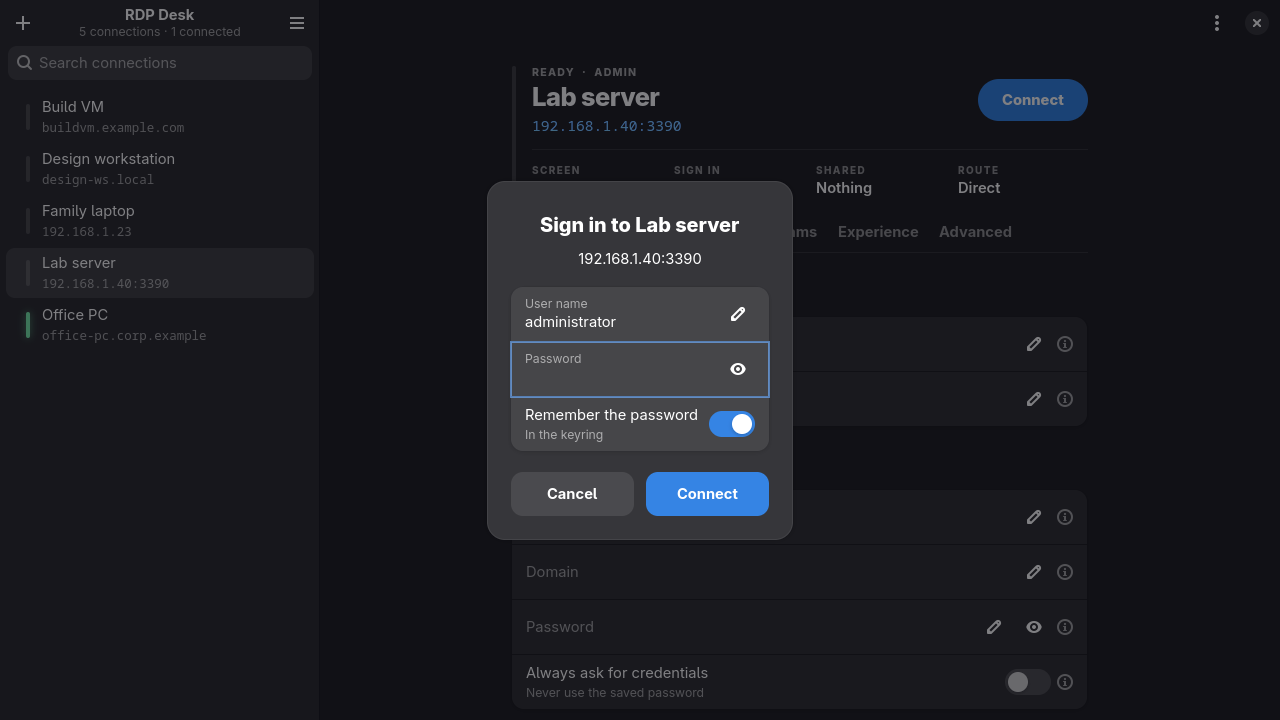
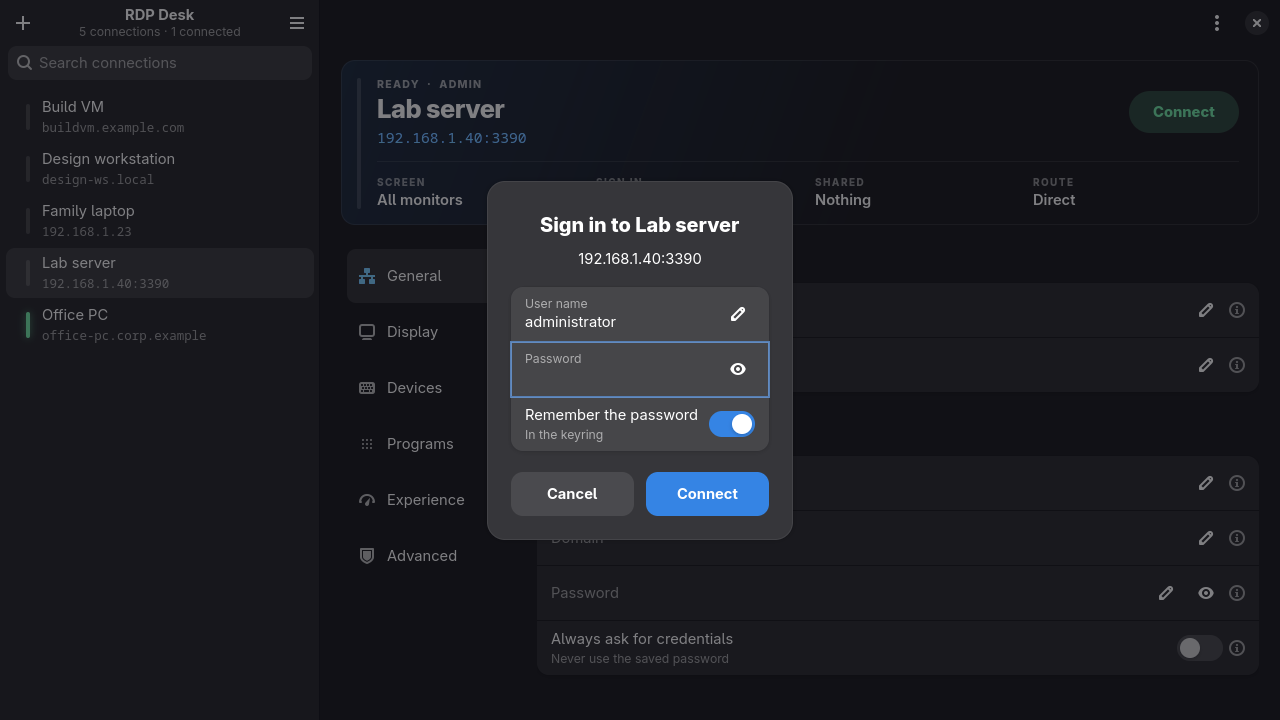
Sections beside the settings; settings as wide as the card; fit any size
- The section switcher moves from under the card to a column left of
  the settings (icon + name); the column and the settings together are
  exactly as wide as the card.
- Each section is a plain column of groups instead of an
  AdwPreferencesPage, which is fixed at 600 px.
- The card and settings grow with the window up to 1100 px.
- Breakpoints: below 960sp the sections become a bottom bar; below
  680sp height the card drops its spec strip; phones collapse the list.
- Back to the gradient card; Connect is green, Disconnect red, and the
  card tints green while connected (theme colours).
- Every section has its own icon (General and Display shared one).

diff --git a/rdpdesk.py b/rdpdesk.py
@@ -88,7 +88,7 @@ def R(key, title, kind="switch", default="0", choices=None, lo=0, hi=0, subtitle
 
 
 TABS = [
-    ("general", "General", "computer-symbolic", [
+    ("general", "General", "network-wired-symbolic", [
         ("Connection", "", ["NAME", R("full address", "Computer (name or IP, optional :port)", "text", "")]),
         ("Sign in", "", [
             R("username", "User name", "text", ""),
@@ -122,7 +122,7 @@ TABS = [
             R("pinconnectionbar", "Pin the connection bar", default="1"),
         ]),
     ]),
-    ("local", "Devices", "audio-speakers-symbolic", [
+    ("local", "Devices", "input-keyboard-symbolic", [
         ("Remote audio", "", [
             R("audiomode", "Remote audio playback", "combo", "0", [
                 ("0", "Play on this computer"), ("1", "Play on the remote computer"), ("2", "Do not play")]),
@@ -146,7 +146,7 @@ TABS = [
         ]),
         "FOLDERS",
     ]),
-    ("programs", "Programs", "system-run-symbolic", [
+    ("programs", "Programs", "view-app-grid-symbolic", [
         ("Start a program on connection", "Leave empty for the normal desktop.", [
             R("alternate shell", "Program path and file name", "text", ""),
             R("shell working directory", "Start in this folder", "text", ""),
@@ -158,7 +158,7 @@ TABS = [
             R("remoteapplicationcmdline", "Command-line arguments", "text", ""),
         ]),
     ]),
-    ("experience", "Experience", "preferences-desktop-appearance-symbolic", [
+    ("experience", "Experience", "power-profile-performance-symbolic", [
         ("Performance", "", [
             R("connection type", "Connection speed", "combo", "7", [
                 ("1", "Modem (56 Kbps)"), ("2", "Low-speed broadband (256 Kbps – 2 Mbps)"),
@@ -181,7 +181,7 @@ TABS = [
             R("autoreconnect max retries", "Attempts", "spin", "20", lo=1, hi=1000),
         ]),
     ]),
-    ("advanced", "Advanced", "preferences-system-symbolic", [
+    ("advanced", "Advanced", "security-high-symbolic", [
         ("Server authentication", "", [
             R("authentication level", "If server authentication fails", "combo", "2", [
                 ("0", "Connect and don't warn me"), ("2", "Warn me"), ("1", "Do not connect")]),
@@ -427,7 +427,13 @@ CSS = """
 .led.warning { background: @warning_color; }
 .hero .led { min-height: 0; }
 .conn-row .subtitle { font-family: monospace; font-size: 0.85em; }
-.hero { padding: 6px 0 0 0; }
+.hero {
+  padding: 18px 20px 16px 16px;
+  border-radius: 14px;
+  background-image: linear-gradient(110deg, alpha(@accent_bg_color, 0.16), alpha(@accent_bg_color, 0.0) 60%);
+  box-shadow: inset 0 0 0 1px alpha(@window_fg_color, 0.09);
+}
+.hero.online { background-image: linear-gradient(110deg, alpha(@success_color, 0.14), alpha(@success_color, 0.0) 60%); }
 .hero-name { font-size: 1.75em; font-weight: 800; letter-spacing: -0.02em; }
 .hero-host { font-family: monospace; color: @accent_color; }
 .status { font-size: 0.72em; font-weight: 800; letter-spacing: 0.12em; opacity: 0.6; }
@@ -436,13 +442,15 @@ CSS = """
 .rule { min-height: 1px; background: alpha(@window_fg_color, 0.09); }
 .spec-key { font-size: 0.68em; font-weight: 800; letter-spacing: 0.14em; opacity: 0.5; }
 .spec-value { font-weight: 600; }
-.rail { margin-top: 16px; box-shadow: inset 0 -1px alpha(@window_fg_color, 0.09); }
-.rail-tab, .rail-tab:hover, .rail-tab:checked, .rail-tab:active {
-  border-radius: 0; padding: 7px 7px 9px 7px; margin-right: 6px; background: none;
-  font-weight: 700; color: alpha(@window_fg_color, 0.5); }
-.rail-tab:hover { color: @window_fg_color; }
-.rail-tab:checked { color: @window_fg_color; box-shadow: inset 0 -2px @accent_color; }
 .big-connect { padding: 9px 24px; font-weight: 800; }
+.go { background: alpha(@success_color, 0.22); color: @success_color; }
+.go:hover { background: alpha(@success_color, 0.32); }
+.stop { background: alpha(@destructive_color, 0.22); color: @destructive_color; }
+.stop:hover { background: alpha(@destructive_color, 0.32); }
+.sections { background: none; }
+.sections row { padding: 9px 12px; margin-bottom: 2px; }
+.sections row image { opacity: 0.7; }
+.sections row:selected image { opacity: 1; color: @accent_color; }
 """
 
 
@@ -502,9 +510,25 @@ class Window(Adw.ApplicationWindow):
         self.toasts.set_child(self.split)
         self.set_content(self.toasts)
 
-        phone = Adw.Breakpoint.new(Adw.BreakpointCondition.parse("max-width: 640sp"))
-        phone.add_setter(self.split, "collapsed", True)
-        self.add_breakpoint(phone)
+        # Fit the window: narrow -> sections as a bottom bar; short -> a compact card (no spec strip);
+        # phone -> the connection list becomes its own page. Only one breakpoint applies at a time, so the
+        # combined cases are spelled out.
+        def fit(condition, narrow=False, short=False, phone=False):
+            bp = Adw.Breakpoint.new(Adw.BreakpointCondition.parse(condition))
+            if narrow:
+                bp.add_setter(self.sections, "visible", False)
+                bp.add_setter(self.switcher_bar, "reveal", True)
+            if short:
+                bp.add_setter(self.specs, "visible", False)
+                bp.add_setter(self.hero_rule, "visible", False)
+            if phone:
+                bp.add_setter(self.split, "collapsed", True)
+            self.add_breakpoint(bp)
+        fit("max-height: 680sp", short=True)
+        fit("max-width: 960sp", narrow=True)
+        fit("max-width: 960sp and max-height: 680sp", narrow=True, short=True)
+        fit("max-width: 640sp", narrow=True, phone=True)
+        fit("max-width: 640sp and max-height: 680sp", narrow=True, short=True, phone=True)
 
         drop = Gtk.DropTarget.new(Gdk.FileList, Gdk.DragAction.COPY)
         drop.connect("drop", lambda _t, value, _x, _y: bool(self.import_files(value.get_files())))
@@ -543,27 +567,32 @@ class Window(Adw.ApplicationWindow):
         return view
 
     def build_content(self):
-        self.tabs = Adw.ViewStack()
+        # Each tab is a plain column of groups (not an AdwPreferencesPage, which is fixed at 600 px), so the
+        # settings can be exactly as wide as the card above them.
+        self.tabs = Adw.ViewStack(hexpand=True, vexpand=True)
         for tab_id, title, icon, groups in TABS:
-            page = Adw.PreferencesPage()
+            box = Gtk.Box(orientation=Gtk.Orientation.VERTICAL, spacing=24, margin_bottom=24)
             for group in groups:
-                page.add(self.build_folders() if group == "FOLDERS" else self.build_group(*group))
-            self.tabs.add_titled_with_icon(page, tab_id, title, icon)
-
-        # Tabs: a text rail with an underline under the header, never icons-only; scrolls sideways if too narrow.
-        rail = Gtk.Box(css_classes=["rail"])
-        self.tab_buttons, group = {}, None
-        for tab_id, title, *_ in TABS:
-            b = Gtk.ToggleButton(label=title, group=group, css_classes=["rail-tab"])
-            b.connect("toggled", lambda b, t=tab_id: b.get_active() and self.tabs.set_visible_child_name(t))
-            rail.append(b)
-            group = group or b
-            self.tab_buttons[tab_id] = b
-        self.tab_buttons[TABS[0][0]].set_active(True)
-        self.tabs.connect("notify::visible-child-name",
-                          lambda st, _: self.tab_buttons[st.get_visible_child_name()].set_active(True))
-        self.switcher = Gtk.ScrolledWindow(child=rail, hscrollbar_policy=Gtk.PolicyType.EXTERNAL,
-                                           vscrollbar_policy=Gtk.PolicyType.NEVER, propagate_natural_height=True)
+                box.append(self.build_folders() if group == "FOLDERS" else self.build_group(*group))
+            self.tabs.add_titled_with_icon(Gtk.ScrolledWindow(child=box, hscrollbar_policy=Gtk.PolicyType.NEVER),
+                                           tab_id, title, icon)
+        # The sections: a column left of the settings; below 960sp a bar at the bottom of the window instead.
+        self.sections = Gtk.ListBox(css_classes=["navigation-sidebar", "sections"], valign=Gtk.Align.START,
+                                    width_request=180)
+        for tab_id, title, icon, _ in TABS:
+            row = Gtk.Box(spacing=12)
+            row.append(Gtk.Image(icon_name=icon))
+            row.append(Gtk.Label(label=title, xalign=0))
+            self.sections.append(row)
+        ids = [t[0] for t in TABS]
+        self.sections.connect("row-selected", lambda _l, row: row and self.tabs.set_visible_child_name(ids[row.get_index()]))
+        self.tabs.connect("notify::visible-child-name", lambda st, _: self.sections.select_row(
+            self.sections.get_row_at_index(ids.index(st.get_visible_child_name()))))
+        self.sections.select_row(self.sections.get_row_at_index(0))
+        self.switcher_bar = Adw.ViewSwitcherBar(stack=self.tabs)
+        body = Gtk.Box(spacing=16, vexpand=True)
+        body.append(self.sections)
+        body.append(self.tabs)
         tools = Gio.Menu()
         for label, action, icon in [("Duplicate", "win.duplicate", "edit-copy-symbolic"),
                                     ("Export…", "win.export", "document-save-as-symbolic"),
@@ -578,17 +607,13 @@ class Window(Adw.ApplicationWindow):
         header = Adw.HeaderBar(show_title=False)
         self.more_button = Gtk.MenuButton(icon_name="view-more-symbolic", menu_model=more, tooltip_text="More")
         header.pack_end(self.more_button)
-        top = Adw.Clamp(maximum_size=600, tightening_threshold=560, margin_top=14, margin_start=12, margin_end=12)
-        top_box = Gtk.Box(orientation=Gtk.Orientation.VERTICAL, margin_start=12, margin_end=12)
-        top_box.append(self.build_hero())
-        top_box.append(self.switcher)
-        top.set_child(top_box)
-        body = Gtk.Box(orientation=Gtk.Orientation.VERTICAL)
-        body.append(top)
-        self.tabs.set_vexpand(True)
-        body.append(self.tabs)
-        edit = Adw.ToolbarView(content=body)
+        col = Gtk.Box(orientation=Gtk.Orientation.VERTICAL, spacing=18, margin_top=14, margin_start=18, margin_end=18)
+        col.append(self.build_hero())
+        col.append(body)
+        # Grows with the window up to 1100 px, so wide windows are filled, not stretched.
+        edit = Adw.ToolbarView(content=Adw.Clamp(maximum_size=1100, tightening_threshold=900, child=col))
         edit.add_top_bar(header)
+        edit.add_bottom_bar(self.switcher_bar)
 
         new = Gtk.Button(label="New connection", action_name="win.new", halign=Gtk.Align.CENTER,
                          css_classes=["pill", "suggested-action"])
@@ -630,12 +655,13 @@ class Window(Adw.ApplicationWindow):
             self.specs.attach(value, col, 1, 1, 1)
             self.spec_values.append(value)
         inner = Gtk.Box(orientation=Gtk.Orientation.VERTICAL, spacing=14, hexpand=True)
-        for w in (top, Gtk.Box(css_classes=["rule"]), self.specs):
+        self.hero_rule = Gtk.Box(css_classes=["rule"])
+        for w in (top, self.hero_rule, self.specs):
             inner.append(w)
-        box = Gtk.Box(spacing=16, css_classes=["hero"])
-        box.append(self.hero_led)
-        box.append(inner)
-        return box
+        self.hero = Gtk.Box(spacing=16, css_classes=["hero"])
+        self.hero.append(self.hero_led)
+        self.hero.append(inner)
+        return self.hero
 
     def update_hero(self):
         if not self.rdp:
@@ -651,7 +677,8 @@ class Window(Adw.ApplicationWindow):
         for w, base in ((self.hero_status, "status"), (self.hero_led, "led")):
             w.set_css_classes([base] + ([kind] if kind else []))
         self.connect_button.set_label("Disconnect" if running else "Connect")
-        self.connect_button.set_css_classes(["pill", "big-connect", "destructive-action" if running else "suggested-action"])
+        self.connect_button.set_css_classes(["pill", "big-connect", "stop" if running else "go"])
+        self.hero.set_css_classes(["hero"] + (["online"] if running else []))
         for label, value in zip(self.spec_values, self.specs_of(rdp)):
             label.set_label(value)
             label.set_tooltip_text(value)

diff --git a/docs/screenshots.py b/docs/screenshots.py
@@ -93,9 +93,7 @@ def steps(app):
     win.tabs.set_visible_child_name("local")  # the longest tab: scrolled down to the shared folders
     yield
     page = win.tabs.get_child_by_name("local")
-    scroller = page.get_first_child()
-    while scroller and not isinstance(scroller, Gtk.ScrolledWindow):
-        scroller = scroller.get_first_child()
+    scroller = page  # each tab is a ScrolledWindow
     adj = scroller.get_vadjustment()
     adj.set_value(adj.get_upper() - adj.get_page_size())
     yield

diff --git a/README.md b/README.md
@@ -1,15 +1,15 @@
 # RDP Desk
 
 **Keep, edit and open Remote Desktop (RDP) connections on Linux.**
-A small GTK 4 / libadwaita app with the settings the Windows Remote Desktop client has, laid out in the same six tabs. FreeRDP makes the connections.
+A small GTK 4 / libadwaita app with the settings the Windows Remote Desktop client has, laid out in the same six sections. FreeRDP makes the connections.
 
 ![RDP Desk: the connection list and the General tab](docs/screenshots/main.png)
 
 ## Features
 
 - **Your connections in one list**, each with a status light that glows green while connected. Search them, and double-click one to connect. Each session opens in its own window, so several can run at once.
-- **A header card for every connection**: status (*Ready*, *Connected*, *Needs a computer*), name, address and one big Connect button, over a strip that sums up the setup at a glance: *Screen*, *Sign in*, *Shared* and *Route*.
-- **Every setting the Windows client has: 54 in all, in six tabs** (the Windows client's, with *Local Resources* called *Devices*). General, Display, Devices, Programs, Experience and Advanced. That includes multiple monitors, remote scaling, audio and microphone, clipboard, printers, drives, USB devices, cameras, security keys, RemoteApp, the performance options, Network Level Authentication and RD Gateway.
+- **A header card for every connection**: status (*Ready*, *Connected*, *Needs a computer*), name, address and one big Connect button, over a strip that sums up the setup at a glance: *Screen*, *Sign in*, *Shared* and *Route*. Below it, the sections sit in a column beside the settings; in narrow windows they move to a bar at the bottom, and in short ones the card goes compact.
+- **Every setting the Windows client has: 54 in all, in six sections** (the Windows client's tabs, with *Local Resources* called *Devices*). General, Display, Devices, Programs, Experience and Advanced. That includes multiple monitors, remote scaling, audio and microphone, clipboard, printers, drives, USB devices, cameras, security keys, RemoteApp, the performance options, Network Level Authentication and RD Gateway.
 - **A help icon on every setting.** Hover the ⓘ to see what the setting does and when you would change it.
 - **Shared folders.** Pick folders such as Downloads or a NAS share. They appear on the remote computer as drives.
 - **Plain `.rdp` files.** Connections are stored in the format Windows uses:
@@ -26,9 +26,9 @@ A small GTK 4 / libadwaita app with the settings the Windows Remote Desktop clie
 
 | | |
 |---|---|
-| ![Display tab](docs/screenshots/display.png) | ![Devices tab with shared folders](docs/screenshots/local.png) |
+| ![Display section](docs/screenshots/display.png) | ![Devices section with shared folders](docs/screenshots/local.png) |
 | **Display**: window or full screen, resolution, scaling, monitors | **Devices**: audio, keyboard, devices, shared folders |
-| ![Experience tab](docs/screenshots/experience.png) | ![Advanced tab](docs/screenshots/advanced.png) |
+| ![Experience section](docs/screenshots/experience.png) | ![Advanced section](docs/screenshots/advanced.png) |
 | **Experience**: connection speed and visual effects | **Advanced**: server authentication, NLA, RD Gateway |
 | ![Sign-in dialog](docs/screenshots/sign-in.png) | ![Light style](docs/screenshots/light.png) |
 | Asks for the password when none is saved | Light style |
@@ -61,7 +61,7 @@ It needs GTK ≥ 4.12, libadwaita ≥ 1.5, Python ≥ 3.10 and FreeRDP 3.
 
 ## Using it
 
-- **New connection** (＋ or Ctrl+N): type the computer's name or IP address on the General tab and press the big **Connect** button in the header card. That's all. Everything else has sensible defaults.
+- **New connection** (＋ or Ctrl+N): type the computer's name or IP address in the General section and press the big **Connect** button in the header card. That's all. Everything else has sensible defaults.
 - **Import** (☰ › Import, Ctrl+O, or drag files onto the window) copies `.rdp` files into your list.
 - **Connect**: the Connect button, a double-click in the list, or Ctrl+Enter. Press it again (**Disconnect**) to end the session.
 - **Passwords**: type it in the Password row and press Enter to save it in the keyring. Leave it empty and you're asked when connecting, with an option to remember it.
@@ -74,7 +74,7 @@ Changes are saved as you make them. Connections live in `~/.local/share/rdpdesk/
 
 Every setting has a hover help icon in the app. In brief:
 
-| Tab | What you set there |
+| Section | What you set there |
 |---|---|
 | **General** | Name, computer (name or IP, optional `:port`), user name, domain, password, *always ask for credentials* |
 | **Display** | Window or full screen, size, *resize the remote desktop with the window*, scale to fit, remote scaling (125 %, 150 %…), all monitors / span / pick monitors, colour depth, connection bar |
@@ -111,8 +111,8 @@ RDP Desk is one Python file (`rdpdesk.py`). It reads and writes `.rdp` files, sh
 
 - **"FreeRDP 3 is not installed"**: install your distribution's FreeRDP 3 package (`freerdp` on Arch, `freerdp3-sdl` on Debian/Ubuntu).
 - **"The computer did not answer"**: check the address, that Remote Desktop is turned on on that computer (Settings › System › Remote Desktop), and that a firewall allows port 3389.
-- **"Security negotiation failed"**: try switching *Network Level Authentication* on the Advanced tab.
-- **The picture flickers or flashes black** (often after a Windows update, especially in VMs): turn off *Graphics acceleration* on the Experience tab.
+- **"Security negotiation failed"**: try switching *Network Level Authentication* in the Advanced section.
+- **The picture flickers or flashes black** (often after a Windows update, especially in VMs): turn off *Graphics acceleration* in the Experience section.
 - **A certificate warning on every connect**: normal for home PCs with a self-signed certificate. Set *If server authentication fails* to *Connect and don't warn me* only on networks you trust.
 
 ## Development
